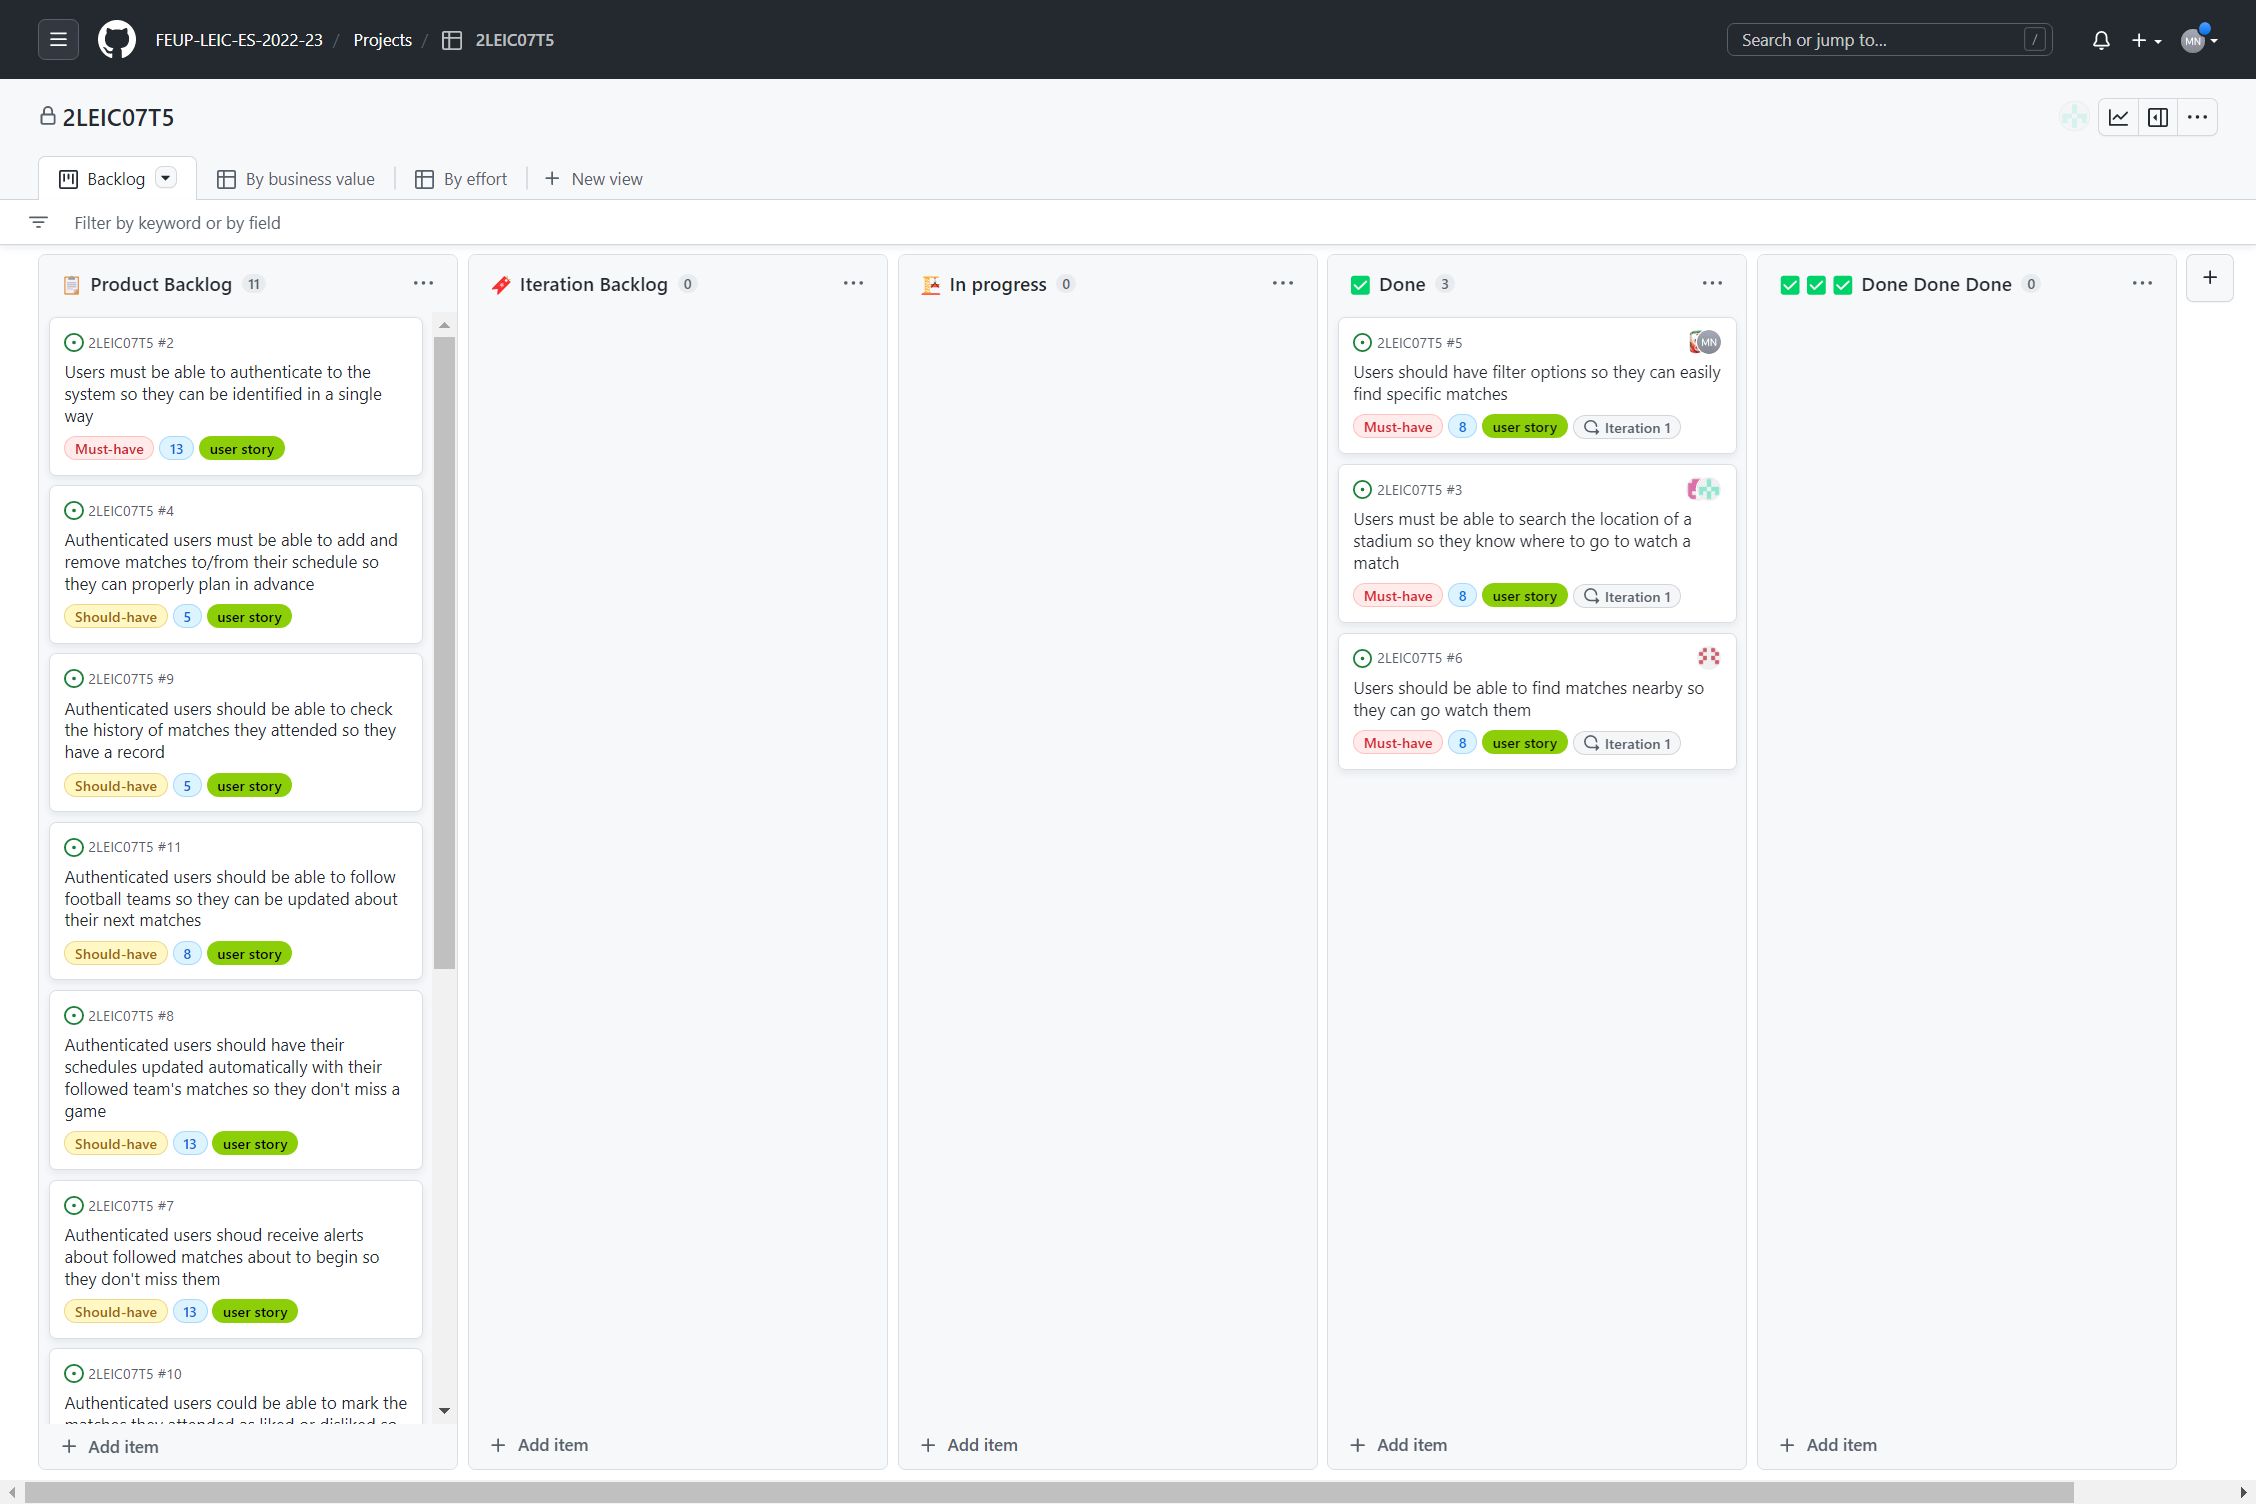
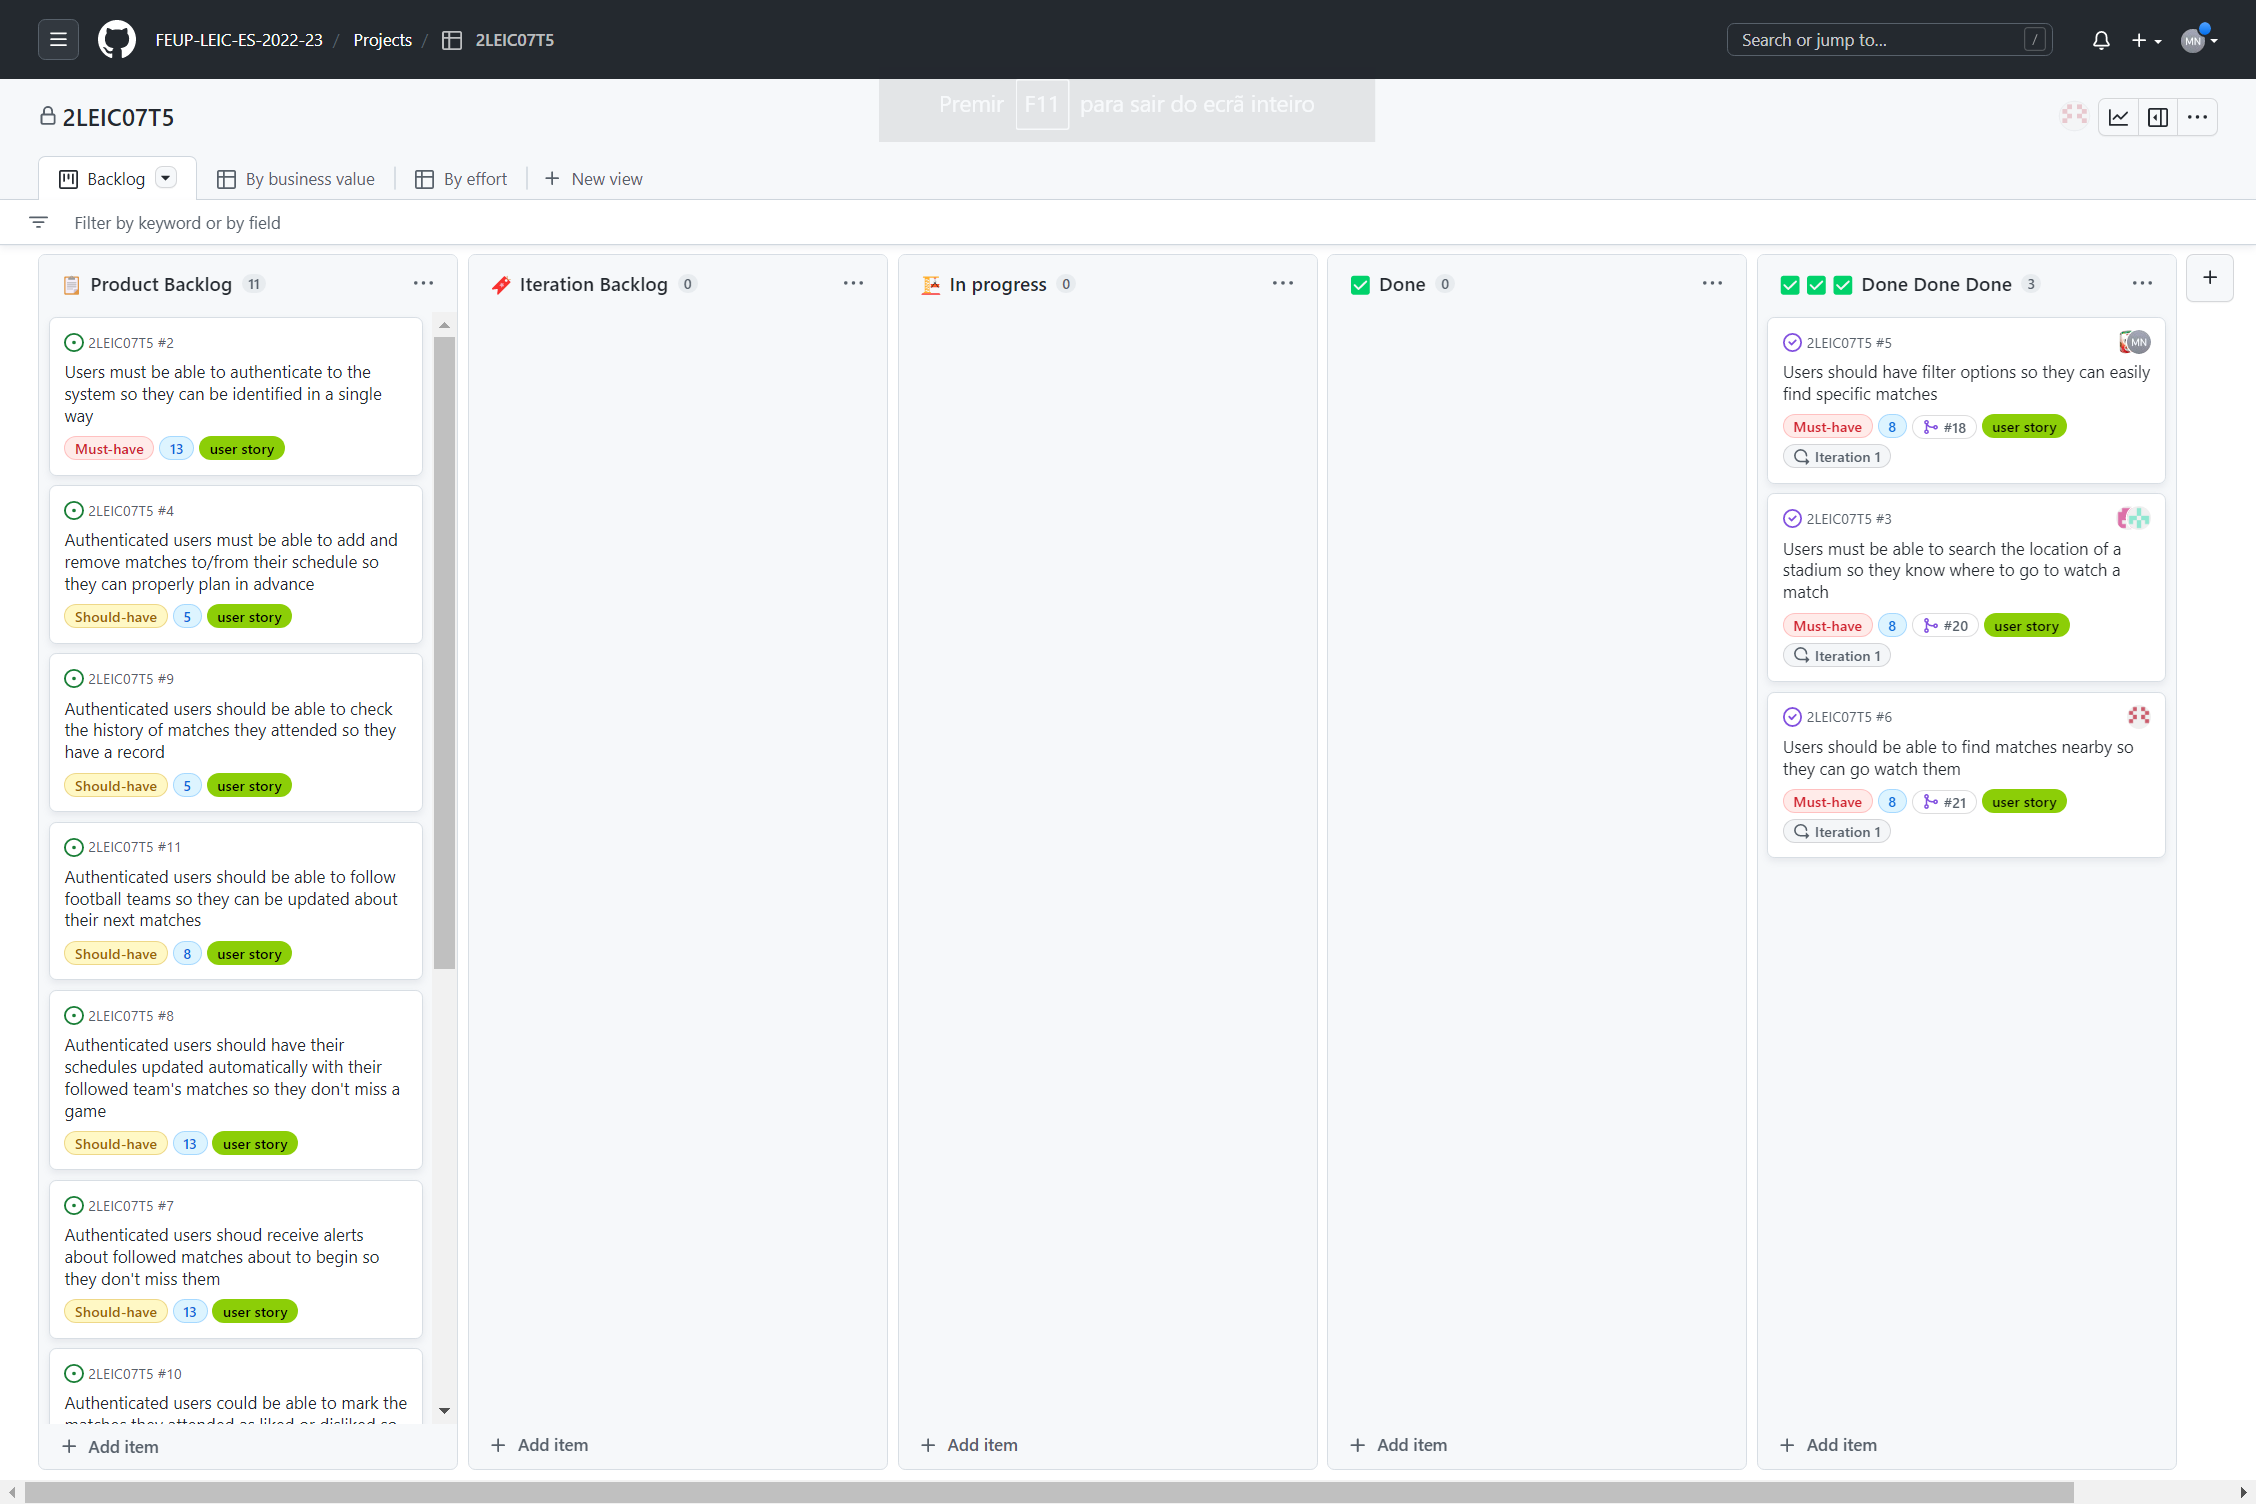
iteration 1 retrospective and iteration 2 planning

diff --git a/docs/ProjectManagement.md b/docs/ProjectManagement.md
@@ -30,3 +30,15 @@ We feel that we are not yet able to do accurate estimations of effort and time, 
 ![End of Iteration 1](/images/iteration1end.png)
 
 **Retrospective:**
+
+We think that Iteration 1 went smoothly because we implemented all three features planned for this iteration. Besides this, we believe that the features were well implemented, useful and functional.
+
+The one problem we faced was the lack of communication between our team. This resulted in one feature that was left to be completed very close to the deadline.
+
+One thing that still puzzles us is related to the interaction with the API - it is a little unreliable and it has a limit of 100 request each day which complicates testing.
+
+### Iteration 2
+
+**Plan:**
+
+![Start of Iteration 2](/images/iteration2start.png)
